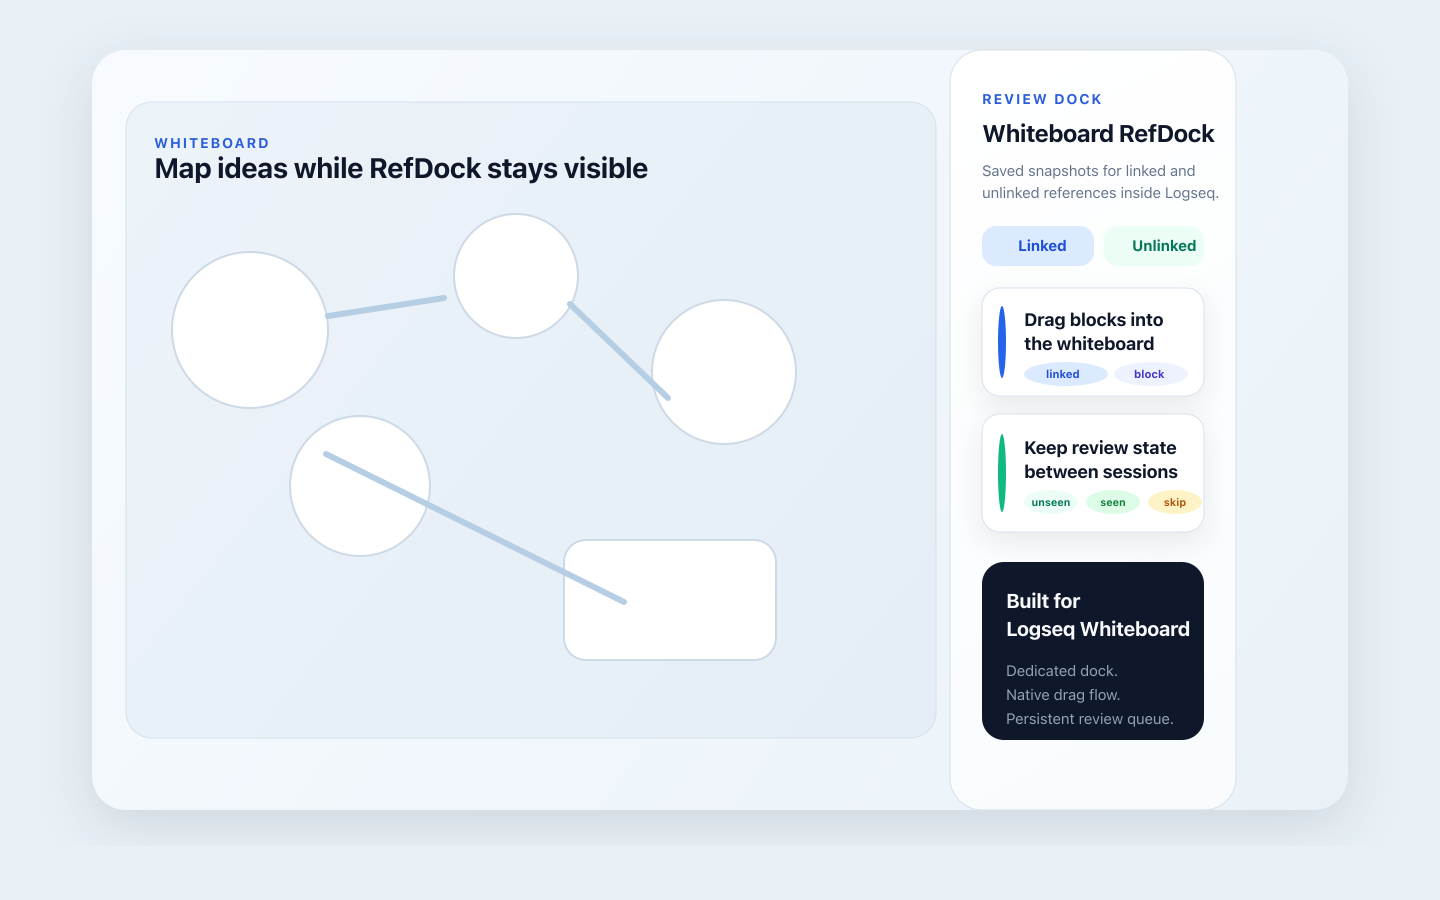
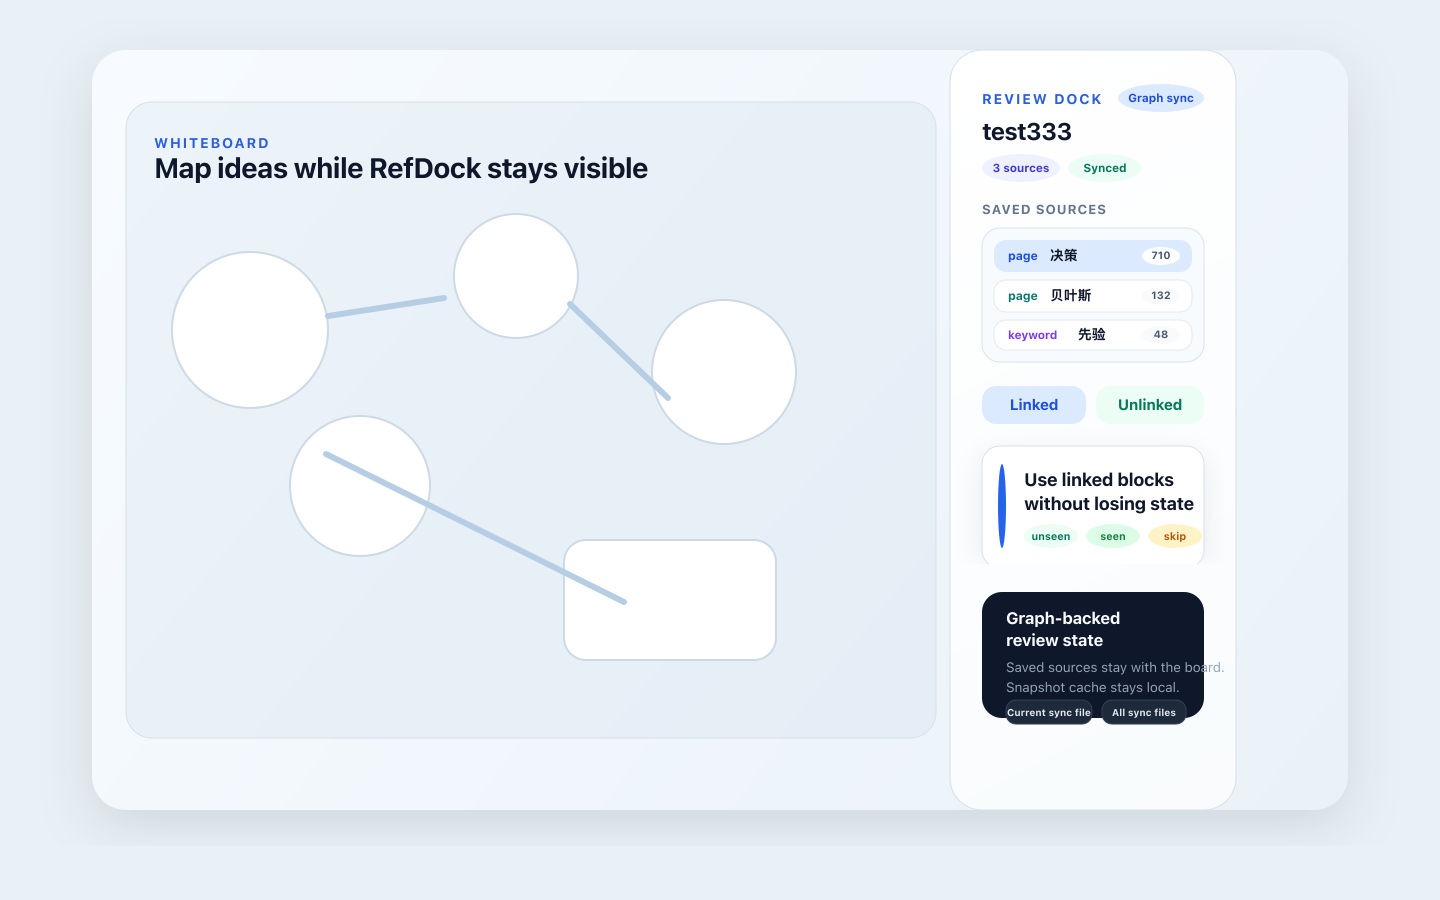
Update README and preview for sync workflow

Changed region(s): [[0.6562, 0.0933, 0.8438, 0.84]]

diff --git a/README.md b/README.md
@@ -8,15 +8,18 @@ Review saved linked and unlinked reference snapshots in a dedicated dock while w
 
 Whiteboard RefDock turns reference review into a whiteboard-first workflow.
 
-Instead of relying on Logseq's live references view, it creates a saved snapshot for the current whiteboard and keeps that review queue visible in a dedicated right-side dock.
+Instead of relying on Logseq's live references view, it creates saved sources for the current whiteboard and keeps that review queue visible in a dedicated right-side dock.
 
 ## Features
 
-- Create a saved snapshot from a page or a keyword.
+- Create a saved source from a page or a keyword.
+- Keep multiple saved sources per whiteboard instead of overwriting a single queue.
 - Review `Linked` and `Unlinked` references in separate tabs.
 - Mark items as `unseen`, `seen`, or `skipped`.
 - Drag page and block items directly into the native Logseq whiteboard.
-- Restore the saved snapshot, item state, and dock width when you return.
+- Restore saved sources, review state, scroll position, and dock width when you return.
+- Optionally enable graph-backed sync for saved sources and review state.
+- Open the current sync file or the graph-wide sync index from the dock.
 - Toggle the dock from the Logseq toolbar.
 
 ## Best For
@@ -24,6 +27,7 @@ Instead of relying on Logseq's live references view, it creates a saved snapshot
 - Large reference review sessions with hundreds of candidates.
 - Whiteboard synthesis workflows where references need triage before being dragged into the canvas.
 - Users who want a persistent review queue instead of Logseq's live reference panel.
+- Users who want to keep review progress on the whiteboard and optionally sync it through the graph.
 
 ## How To Use
 
@@ -31,9 +35,28 @@ Instead of relying on Logseq's live references view, it creates a saved snapshot
 2. Toggle `Whiteboard RefDock` from the toolbar if the dock is hidden.
 3. Choose `Page` or `Keyword`.
 4. Click `Create Snapshot`.
-5. Review items in the `Linked` and `Unlinked` tabs.
-6. Drag useful items into the whiteboard.
-7. Mark items as `seen`, `unseen`, or `skipped`.
+5. Revisit any saved source from the `Saved sources` list.
+6. Review items in the `Linked` and `Unlinked` tabs.
+7. Drag useful items into the whiteboard.
+8. Mark items as `seen`, `unseen`, or `skipped`.
+
+## Storage and Sync
+
+By default, Whiteboard RefDock uses local-only storage for the current graph.
+
+If you enable `Enable graph sync` in plugin settings, the plugin will also write graph-backed state pages for:
+
+- saved sources
+- review state
+- sync index links
+
+Local cache is still used for:
+
+- snapshot results
+- scroll position
+- dock width and UI state
+
+Graph-backed sync does not turn the plugin into a remote service. It only persists review metadata inside the Logseq graph.
 
 ## Platform Support
 
@@ -57,7 +80,9 @@ Without that access, the plugin cannot provide the current dock experience.
 
 Whiteboard RefDock does not send graph data to external services.
 
-All snapshots and item state are stored locally in the Logseq plugin state for the current graph.
+By default, snapshots and review state are stored locally in the Logseq plugin state for the current graph.
+
+If graph sync is enabled, saved sources and review state are also written into graph-backed state pages so they can travel with the graph.
 
 ## Authors
 
